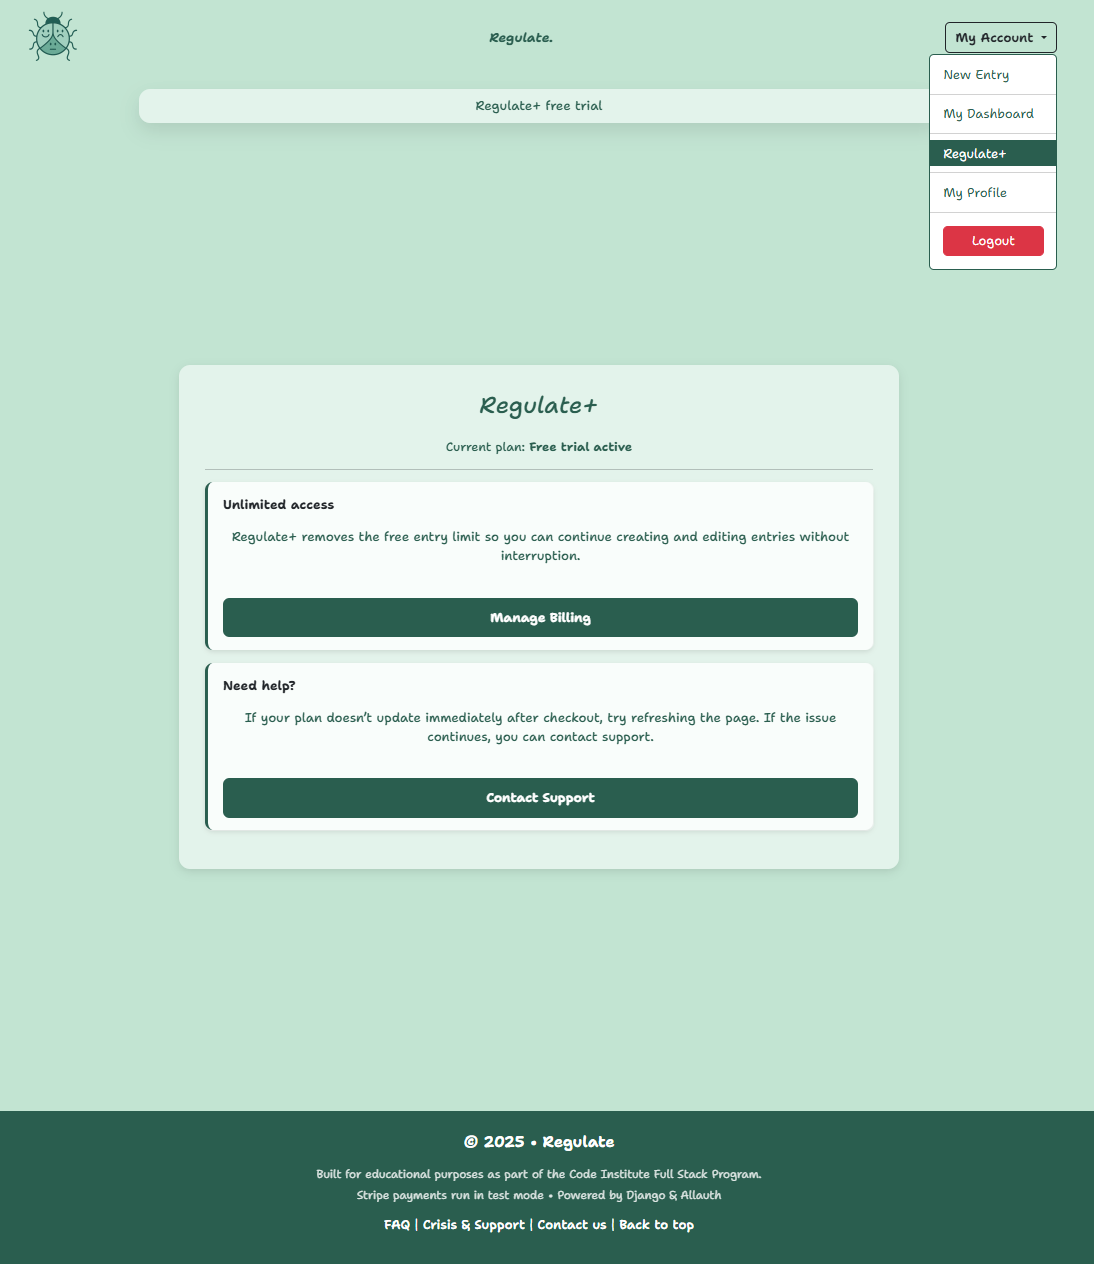
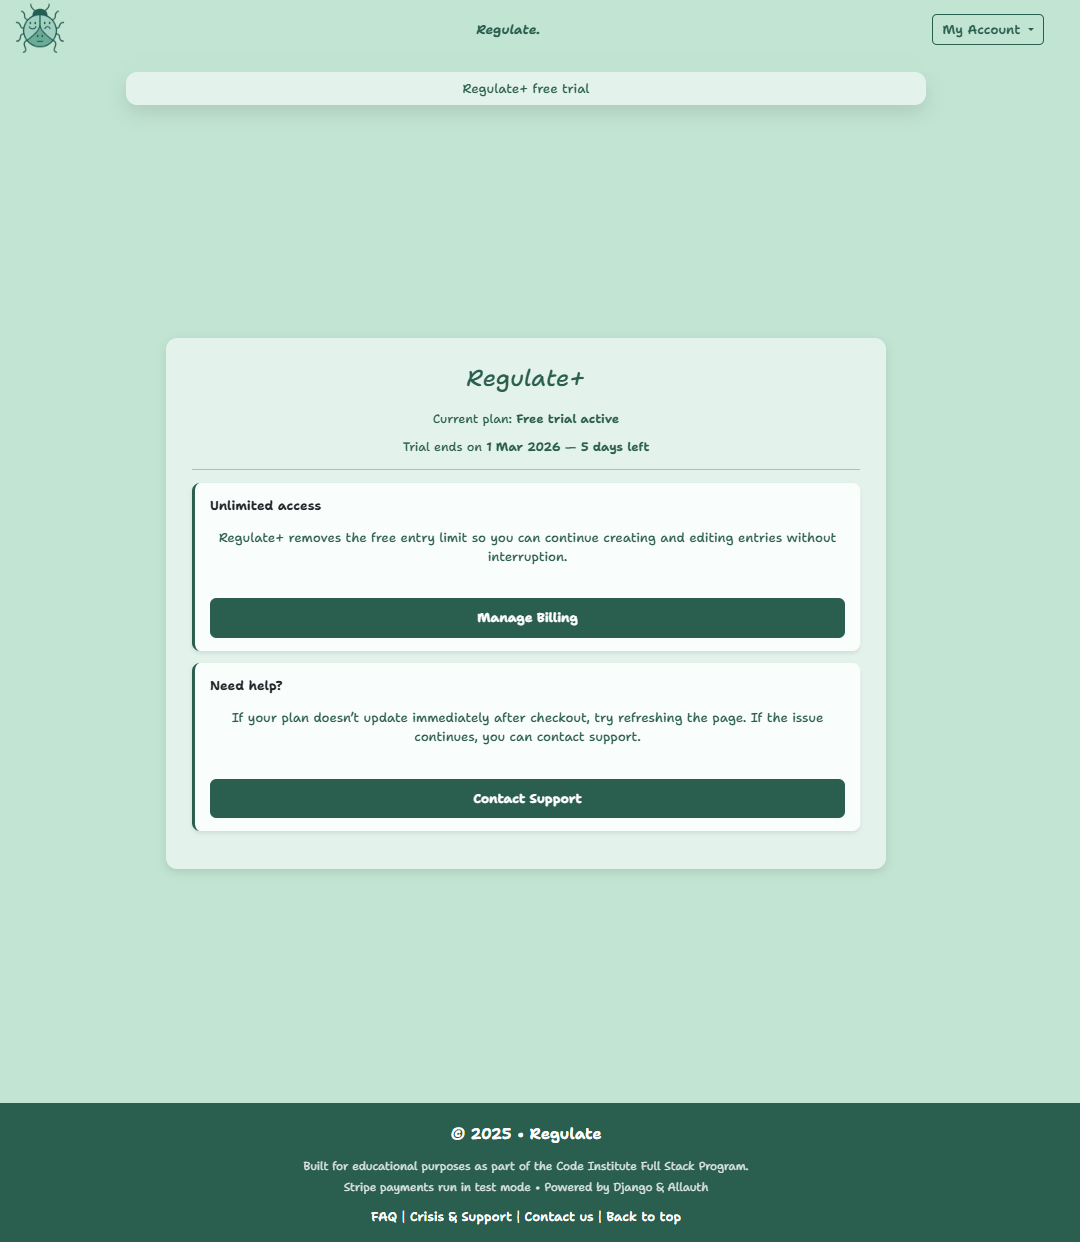
document trial days remaining and next billing date display in Features and Testing

diff --git a/documentation/TESTING.md b/documentation/TESTING.md
@@ -857,6 +857,44 @@ Rendering is fast, stable, and fully standards-compliant.
 
 This is particularly important for a subscription/payment page, where performance and accessibility directly influence user trust and conversion confidence.
 
+---
+
+### Subscription Date & Trial Countdown Verification
+
+During extended subscription flow testing, it was identified that Stripe does not consistently return `current_period_end` depending on API expansion and object state.
+
+To ensure deterministic behaviour, a fallback mechanism was implemented to derive the billing period end using:
+
+- `billing_cycle_anchor`
+- Subscription interval (`day`, `week`, `month`, `year`)
+- Interval count
+
+This guarantees that the Regulate+ page always displays:
+
+- Remaining trial days (when applicable)
+- Next billing date
+- Days remaining until renewal
+
+Manual verification was performed using:
+
+- TestSiteUser3 (trial flow)
+- Active paid subscription state
+- Stripe Dashboard comparison against stored Django model values
+- Post-checkout sync behaviour
+
+#### Tests Performed
+
+| Scenario | Expected Result | Actual Result |
+|----------|----------------|--------------|
+| Active trial | Trial end date displayed | ✔ Correct date shown |
+| Active subscription | Next billing date displayed | ✔ Correct date shown |
+| Active subscription | Remaining days calculated correctly | ✔ Matches Stripe dashboard timestamp |
+| Post-checkout redirect | Subscription dates populate without admin intervention | ✔ Verified |
+
+All Stripe timestamps were converted to UTC-aware Django datetimes before storage.
+
+This confirms that the Regulate+ screen now reliably displays accurate subscription timing information across trial and active states.
+
 </details>
 
 <details>
@@ -3699,6 +3737,29 @@ Return to [README.md](../README.md)
 | Active subscription shows plus banner | Paid plan recognised correctly | Passed |
 | Cancelled but period active shows ending soon | Grace-period messaging works | Passed |
 | Regulate+ context flags set correctly | Subscription state reflected in view context | Passed |
+
+#### Billing Period Derivation Logic
+
+Stripe does not always provide `current_period_end` directly depending on API expansion and object state.
+
+To ensure consistent behaviour, fallback logic was implemented to derive the billing period end using:
+
+- `billing_cycle_anchor`
+- Subscription interval
+- Interval count
+
+Unit and shell-based verification confirmed:
+
+- Derived billing dates match Stripe dashboard values
+- Month transitions handle variable month lengths correctly
+- UTC-aware datetime objects are stored in the database
+- Remaining days calculation never returns negative values
+
+This ensures deterministic billing display behaviour across:
+
+- Trial subscriptions
+- Active paid subscriptions
+- Post-checkout sync events
 
 [Back to contents](#contents)
 

diff --git a/documentation/FEATURES.md b/documentation/FEATURES.md
@@ -870,6 +870,8 @@ Access to this page is permanently available via the **“Regulate+” link in t
 
 ![Feature 22](readme-media/images/22regulate-plus-free-plan.png)
 
+![Feature 22a](readme-media/images/22aregulate-plus-subscription.png)
+
 ---
 
 ### Dynamic Plan State Behaviour
@@ -902,6 +904,20 @@ Once a user activates either:
 - A **Regulate+ subscription**
 
 The Regulate+ page automatically updates to reflect the new plan state.
+
+In addition to updating available actions, the page dynamically displays billing information relevant to the user's subscription state.
+
+When trialing:
+- Trial end date  
+- Remaining trial days  
+
+When actively subscribed:
+- Next billing date  
+- Remaining days in the current billing cycle  
+
+These values are synchronised with Stripe subscription data and calculated server-side to ensure accuracy.
+
+Dates are presented purely for transparency and clarity, not as urgency-driven countdown prompts. This aligns with Regulate’s commitment to informed user autonomy while maintaining calm, non-pressured design principles.
 
 Instead of upgrade buttons, the page displays:
 

diff --git a/README.md b/README.md
@@ -1329,20 +1329,6 @@ This would provide insight without turning emotional tracking into performance t
 
 ---
 
-### Enhanced Subscription Controls
-
-- In-app subscription history display.
-- Display:
-  - Next billing date
-  - Trial countdown
-  - Cancellation confirmation summary.
-
-(Stripe remains the source of truth, but UX could be enhanced.)
-
-[Back to contents](#contents)
-
----
-
 ### Guided Emotional Prompts
 
 - Optional trauma-informed reflection prompts.
